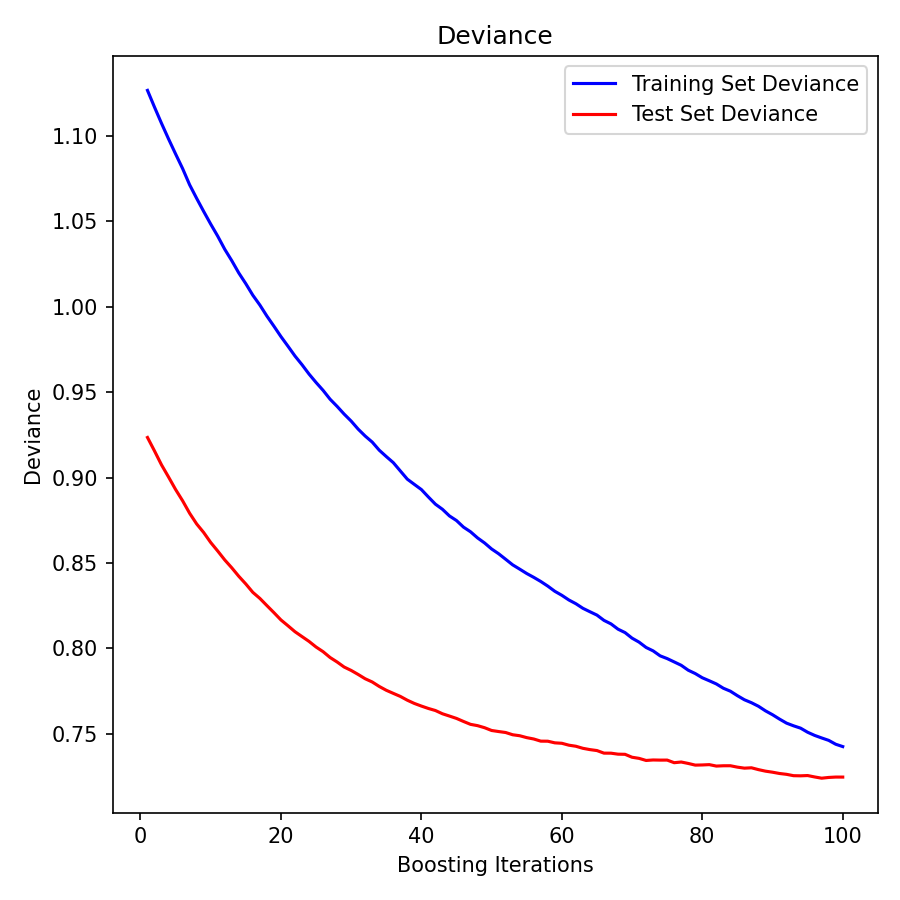
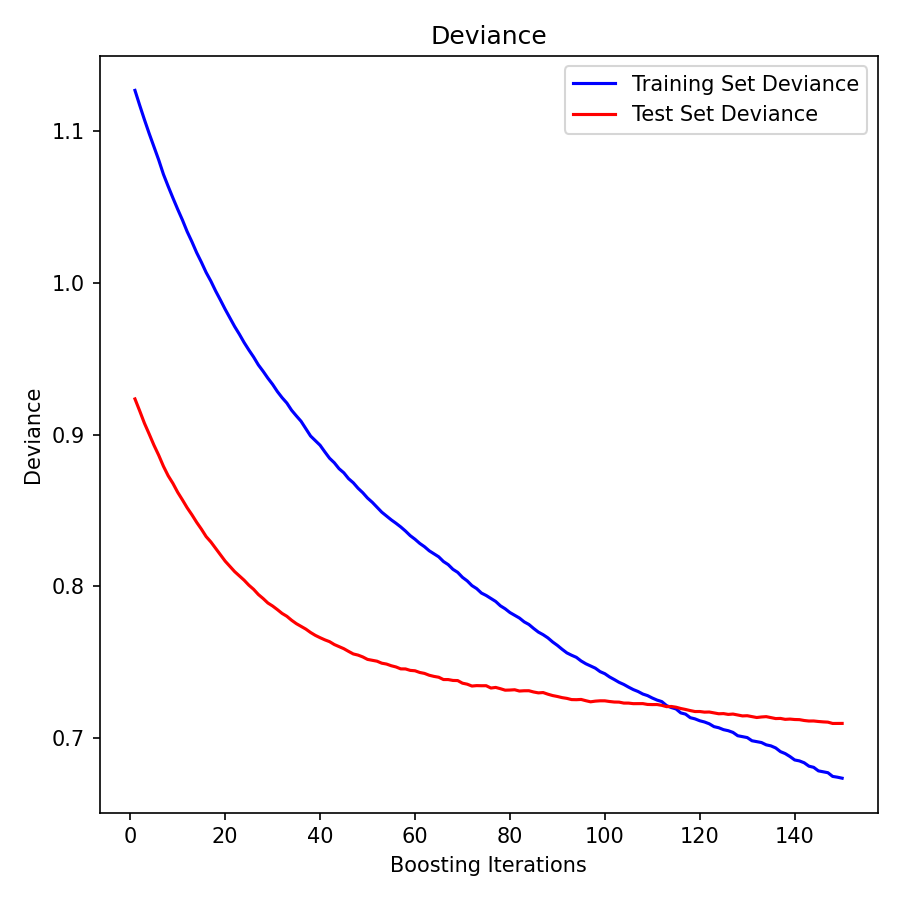
Updated parameters and running experiment #11

diff --git a/src/learning_curves.py b/src/learning_curves.py
@@ -2,7 +2,10 @@ import numpy as np
 import matplotlib.pyplot as plt
 from sklearn.model_selection import learning_curve
 from sklearn.inspection import permutation_importance
+import yaml
 
+params = yaml.safe_load(open("params.yaml"))["training"]
+n_estimators = params["n_est"]
 
 def plot_learning_curve(estimator, title, X, y, axes=None, ylim=None, cv=None,
                         n_jobs=None, train_sizes=np.linspace(.1, 1.0, 5)):
@@ -60,7 +63,7 @@ def plot_learning_curve(estimator, title, X, y, axes=None, ylim=None, cv=None,
     return plt
 
 
-def deviance(model, x, y, n_estimators=100):
+def deviance(model, x, y, n_estimators=n_estimators):
     test_score = np.zeros((n_estimators,), dtype=np.float64)
     for i, y_pred in enumerate(model.staged_predict(x)):
         test_score[i] = model.loss_(y, y_pred)
